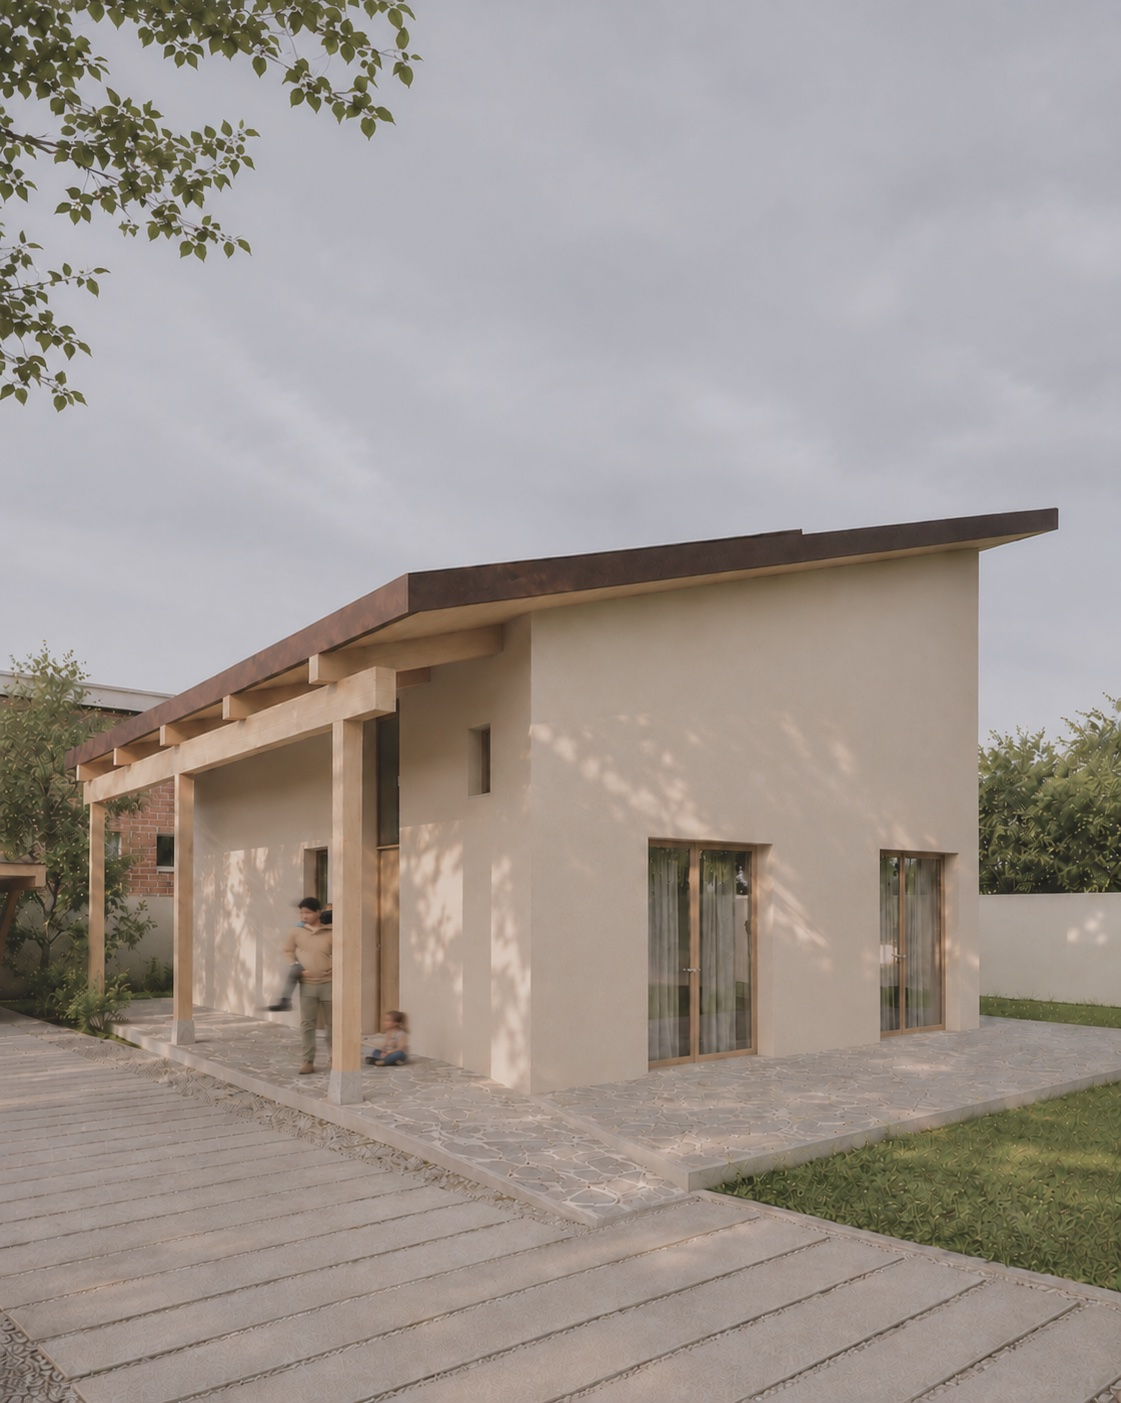
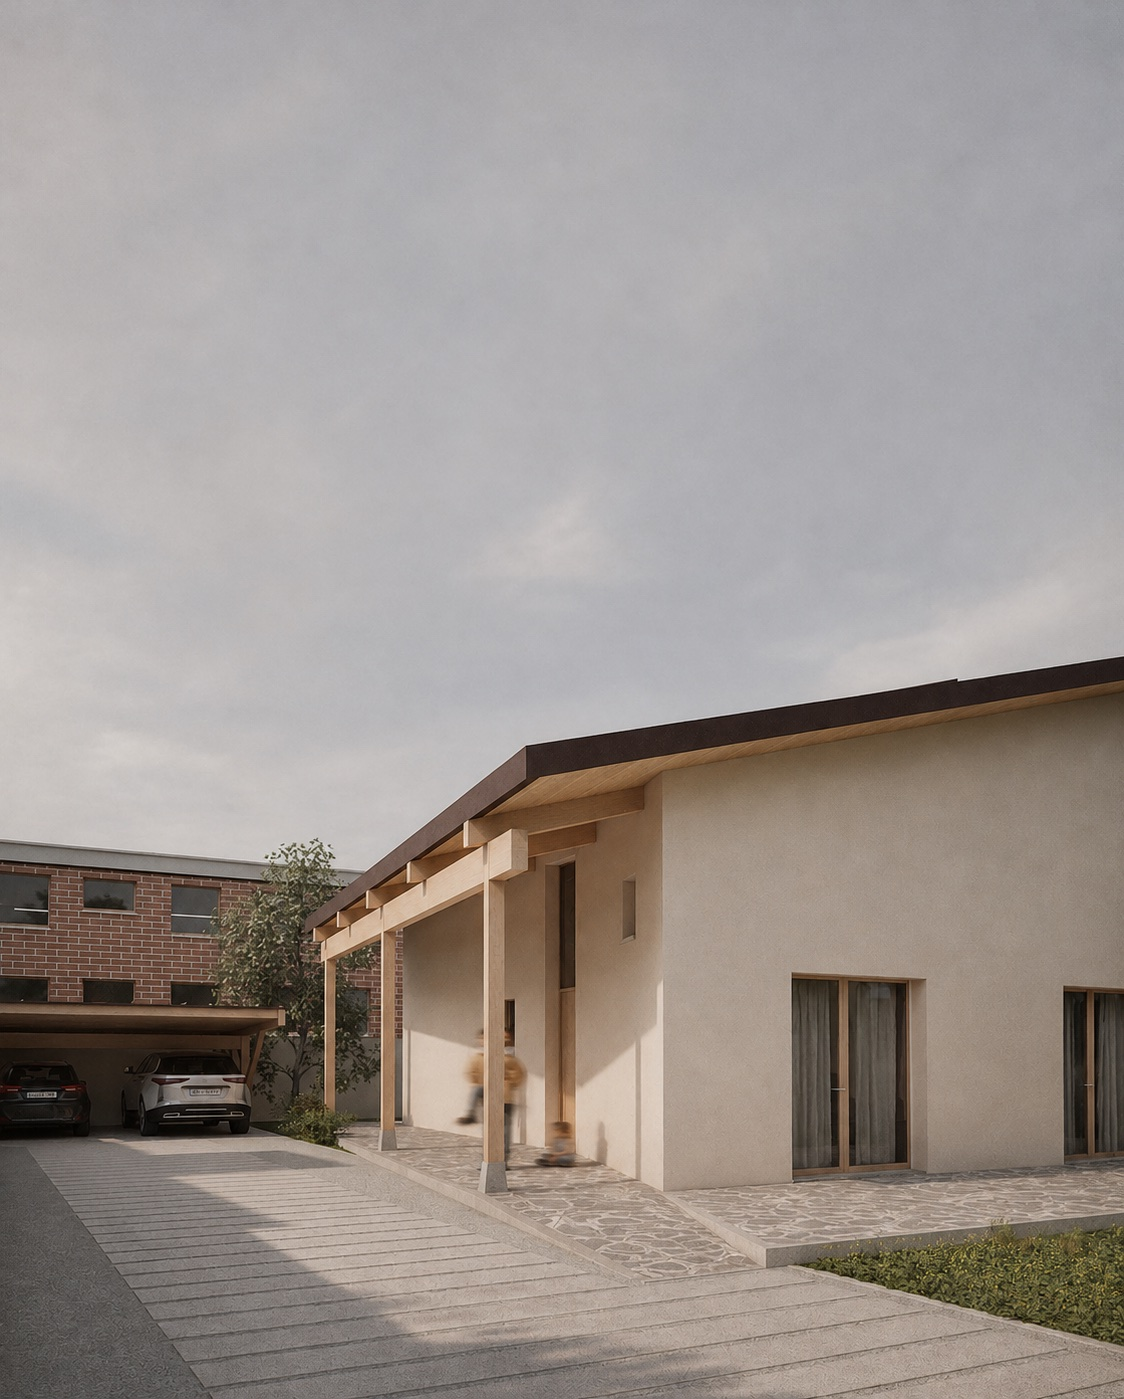
Villetta minima: foto 04 aggiornata

diff --git a/en/villetta-minima.html b/en/villetta-minima.html
@@ -73,7 +73,7 @@
           <figure class="on"><img src="../img/villetta-minima/01.jpg" width="1440" height="1800" style="aspect-ratio: 1440 / 1800" alt="Villetta minima, Caronno, photo 1" decoding="async"></figure>
           <figure><img src="../img/villetta-minima/02.jpg" width="1121" height="1403" style="aspect-ratio: 1121 / 1403" alt="Villetta minima, Caronno, photo 2" decoding="async"></figure>
           <figure><img src="../img/villetta-minima/03.jpg" width="1122" height="1402" style="aspect-ratio: 1122 / 1402" alt="Villetta minima, Caronno, photo 3" decoding="async"></figure>
-          <figure><img data-src="../img/villetta-minima/04.jpg" width="1121" height="1403" style="aspect-ratio: 1121 / 1403" alt="Villetta minima, Caronno, photo 4" decoding="async"></figure>
+          <figure><img data-src="../img/villetta-minima/04.jpg" width="1124" height="1399" style="aspect-ratio: 1124 / 1399" alt="Villetta minima, Caronno, photo 4" decoding="async"></figure>
           <figure><img data-src="../img/villetta-minima/05.jpg" width="1025" height="1535" style="aspect-ratio: 1025 / 1535" alt="Villetta minima, Caronno, photo 5" decoding="async"></figure>
           <figure><img src="../img/villetta-minima/06.jpg" width="1020" height="1541" style="aspect-ratio: 1020 / 1541" alt="Villetta minima, Caronno, photo 6" decoding="async"></figure>
           <figure><img src="../img/villetta-minima/07.jpg" width="1025" height="1535" style="aspect-ratio: 1025 / 1535" alt="Villetta minima, Caronno, photo 7" decoding="async"></figure>

diff --git a/villetta-minima.html b/villetta-minima.html
@@ -73,7 +73,7 @@
           <figure class="on"><img src="img/villetta-minima/01.jpg" width="1440" height="1800" style="aspect-ratio: 1440 / 1800" alt="Villetta minima, Caronno, foto 1" decoding="async"></figure>
           <figure><img src="img/villetta-minima/02.jpg" width="1121" height="1403" style="aspect-ratio: 1121 / 1403" alt="Villetta minima, Caronno, foto 2" decoding="async"></figure>
           <figure><img src="img/villetta-minima/03.jpg" width="1122" height="1402" style="aspect-ratio: 1122 / 1402" alt="Villetta minima, Caronno, foto 3" decoding="async"></figure>
-          <figure><img data-src="img/villetta-minima/04.jpg" width="1121" height="1403" style="aspect-ratio: 1121 / 1403" alt="Villetta minima, Caronno, foto 4" decoding="async"></figure>
+          <figure><img data-src="img/villetta-minima/04.jpg" width="1124" height="1399" style="aspect-ratio: 1124 / 1399" alt="Villetta minima, Caronno, foto 4" decoding="async"></figure>
           <figure><img data-src="img/villetta-minima/05.jpg" width="1025" height="1535" style="aspect-ratio: 1025 / 1535" alt="Villetta minima, Caronno, foto 5" decoding="async"></figure>
           <figure><img src="img/villetta-minima/06.jpg" width="1020" height="1541" style="aspect-ratio: 1020 / 1541" alt="Villetta minima, Caronno, foto 6" decoding="async"></figure>
           <figure><img src="img/villetta-minima/07.jpg" width="1025" height="1535" style="aspect-ratio: 1025 / 1535" alt="Villetta minima, Caronno, foto 7" decoding="async"></figure>

diff --git a/privacy.html b/privacy.html
@@ -65,7 +65,7 @@
         <div><dt>Cookie</dt><dd>Nessuno</dd></div>
         <div><dt>Tracciamento</dt><dd>Nessuno</dd></div>
         <div><dt>Hosting</dt><dd>GitHub Pages</dd></div>
-        <div><dt>Aggiornato</dt><dd>04.11.2026</dd></div>
+        <div><dt>Aggiornato</dt><dd>05.11.2026</dd></div>
     </dl>
   </main>
   </div>

diff --git a/en/privacy.html b/en/privacy.html
@@ -65,7 +65,7 @@
         <div><dt>Cookies</dt><dd>None</dd></div>
         <div><dt>Tracking</dt><dd>None</dd></div>
         <div><dt>Hosting</dt><dd>GitHub Pages</dd></div>
-        <div><dt>Updated</dt><dd>04.11.2026</dd></div>
+        <div><dt>Updated</dt><dd>05.11.2026</dd></div>
     </dl>
   </main>
   </div>
